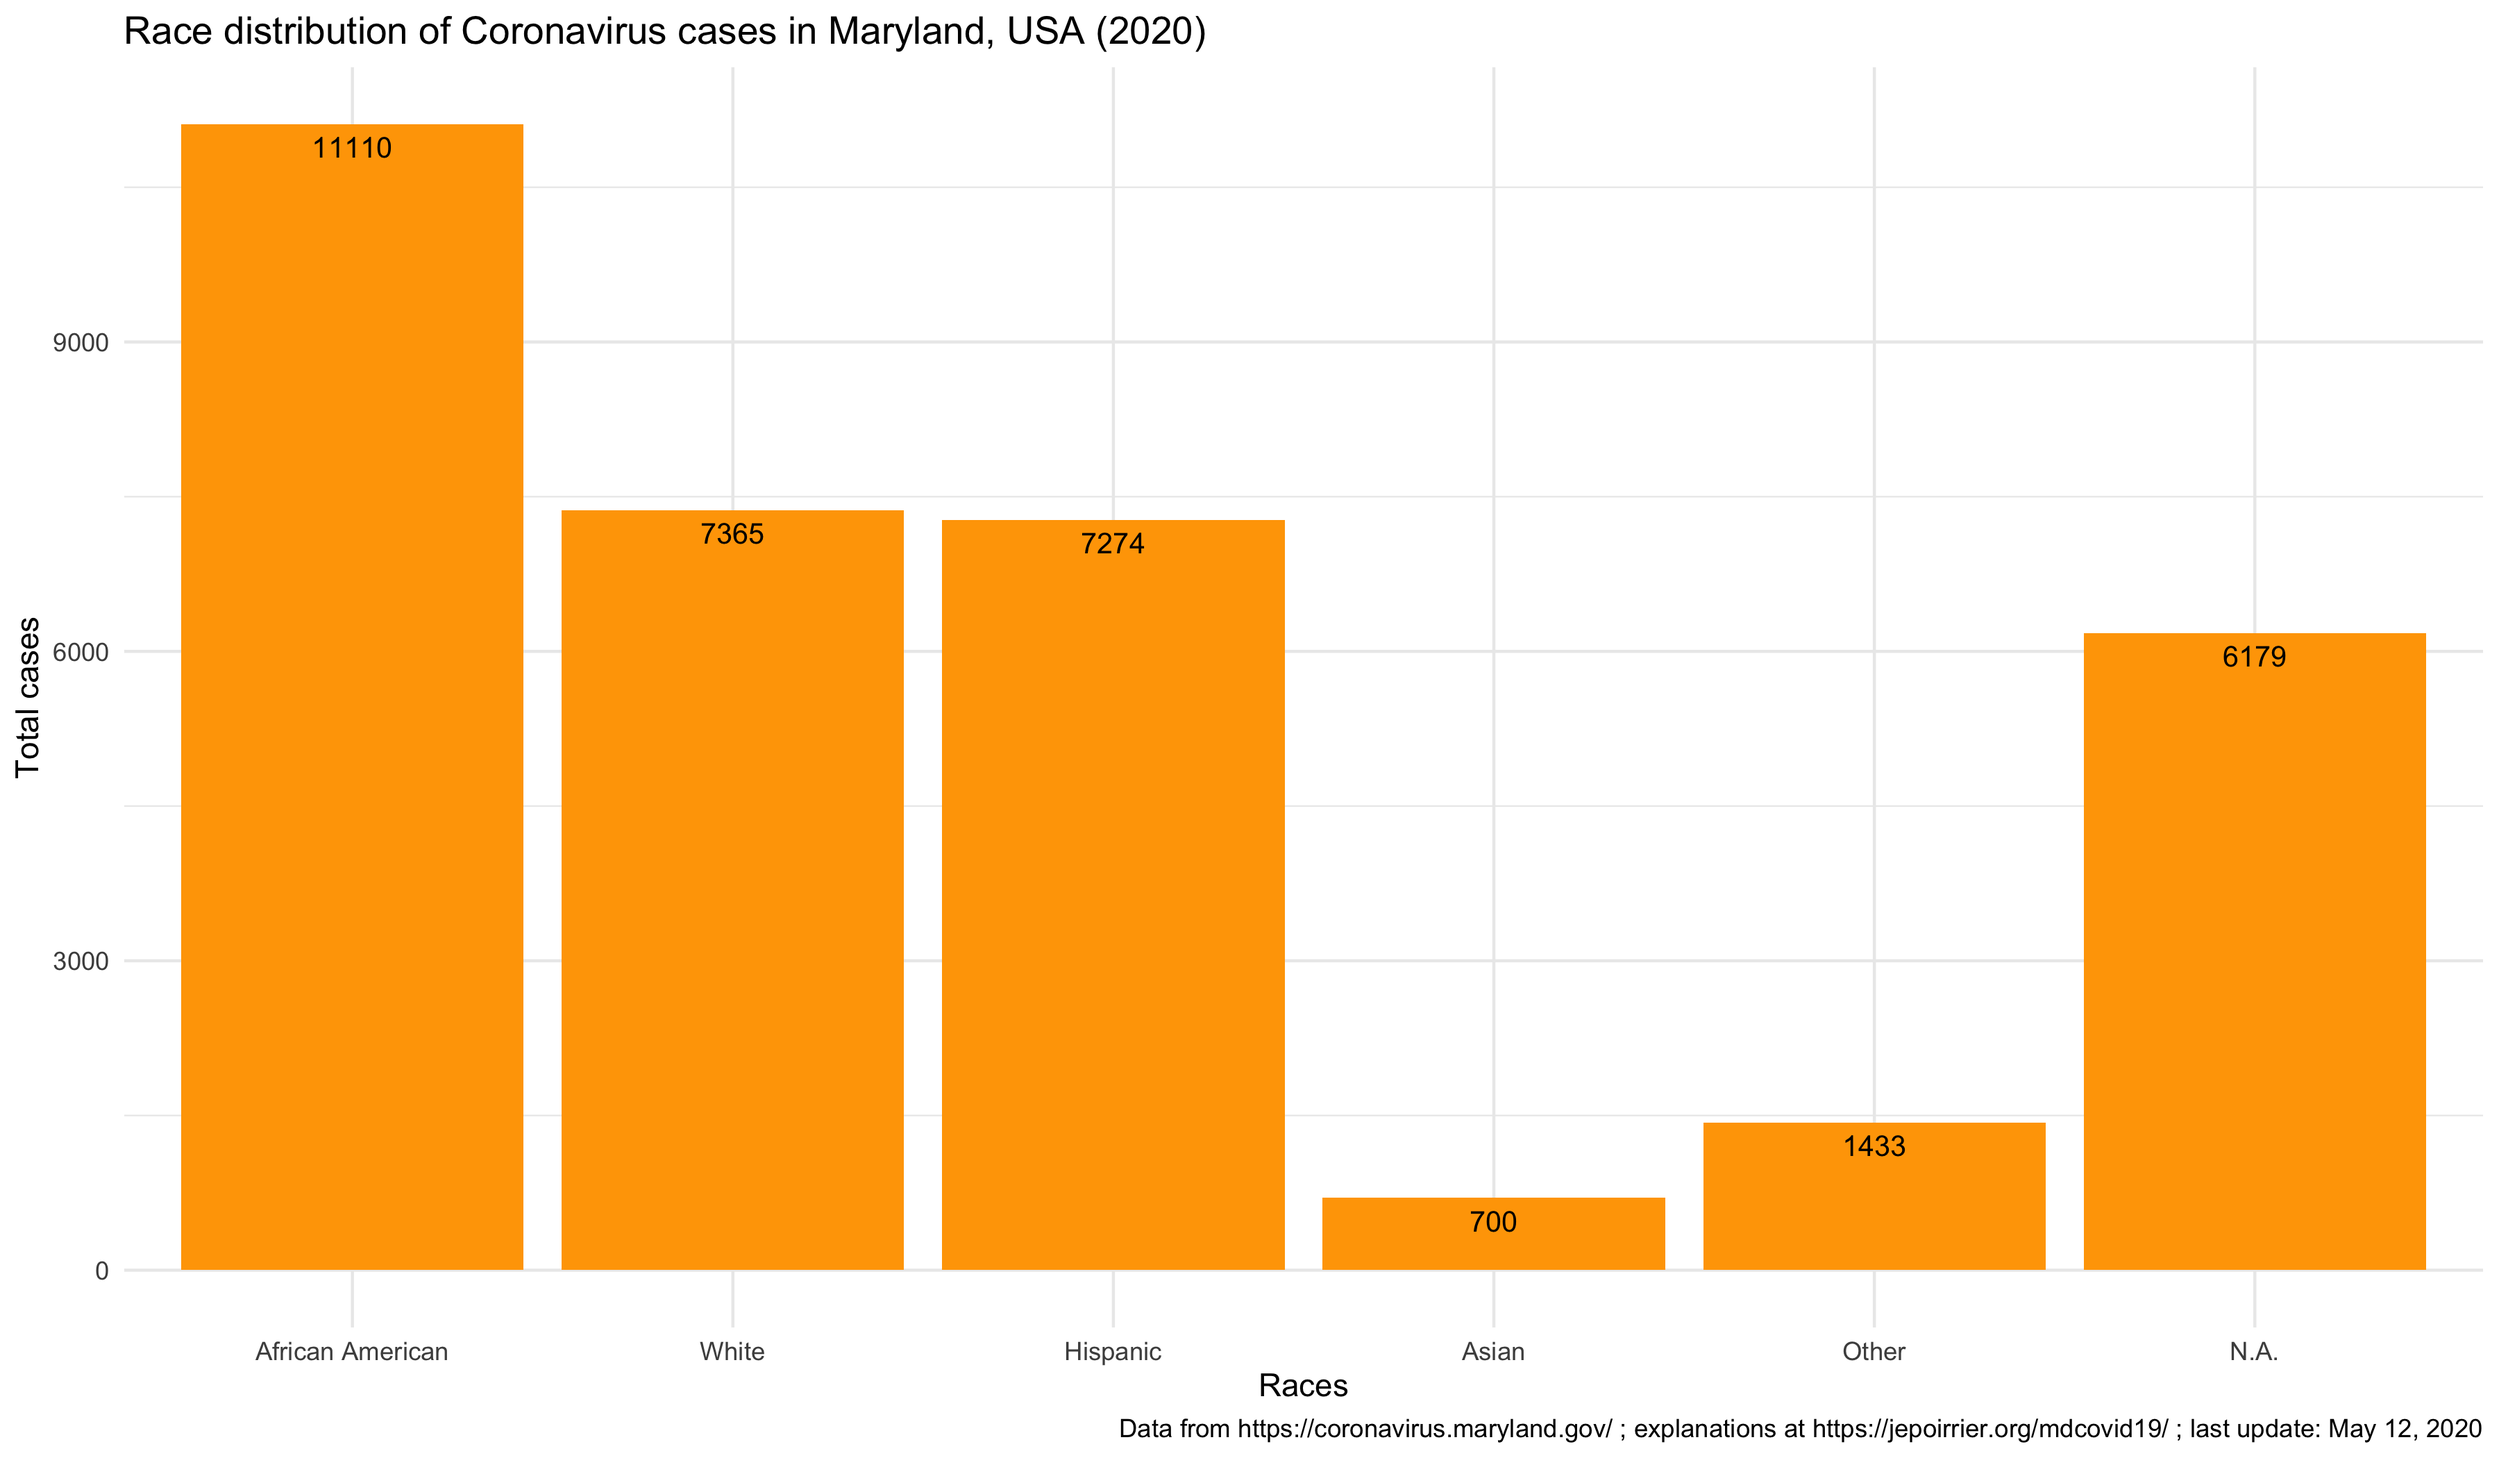
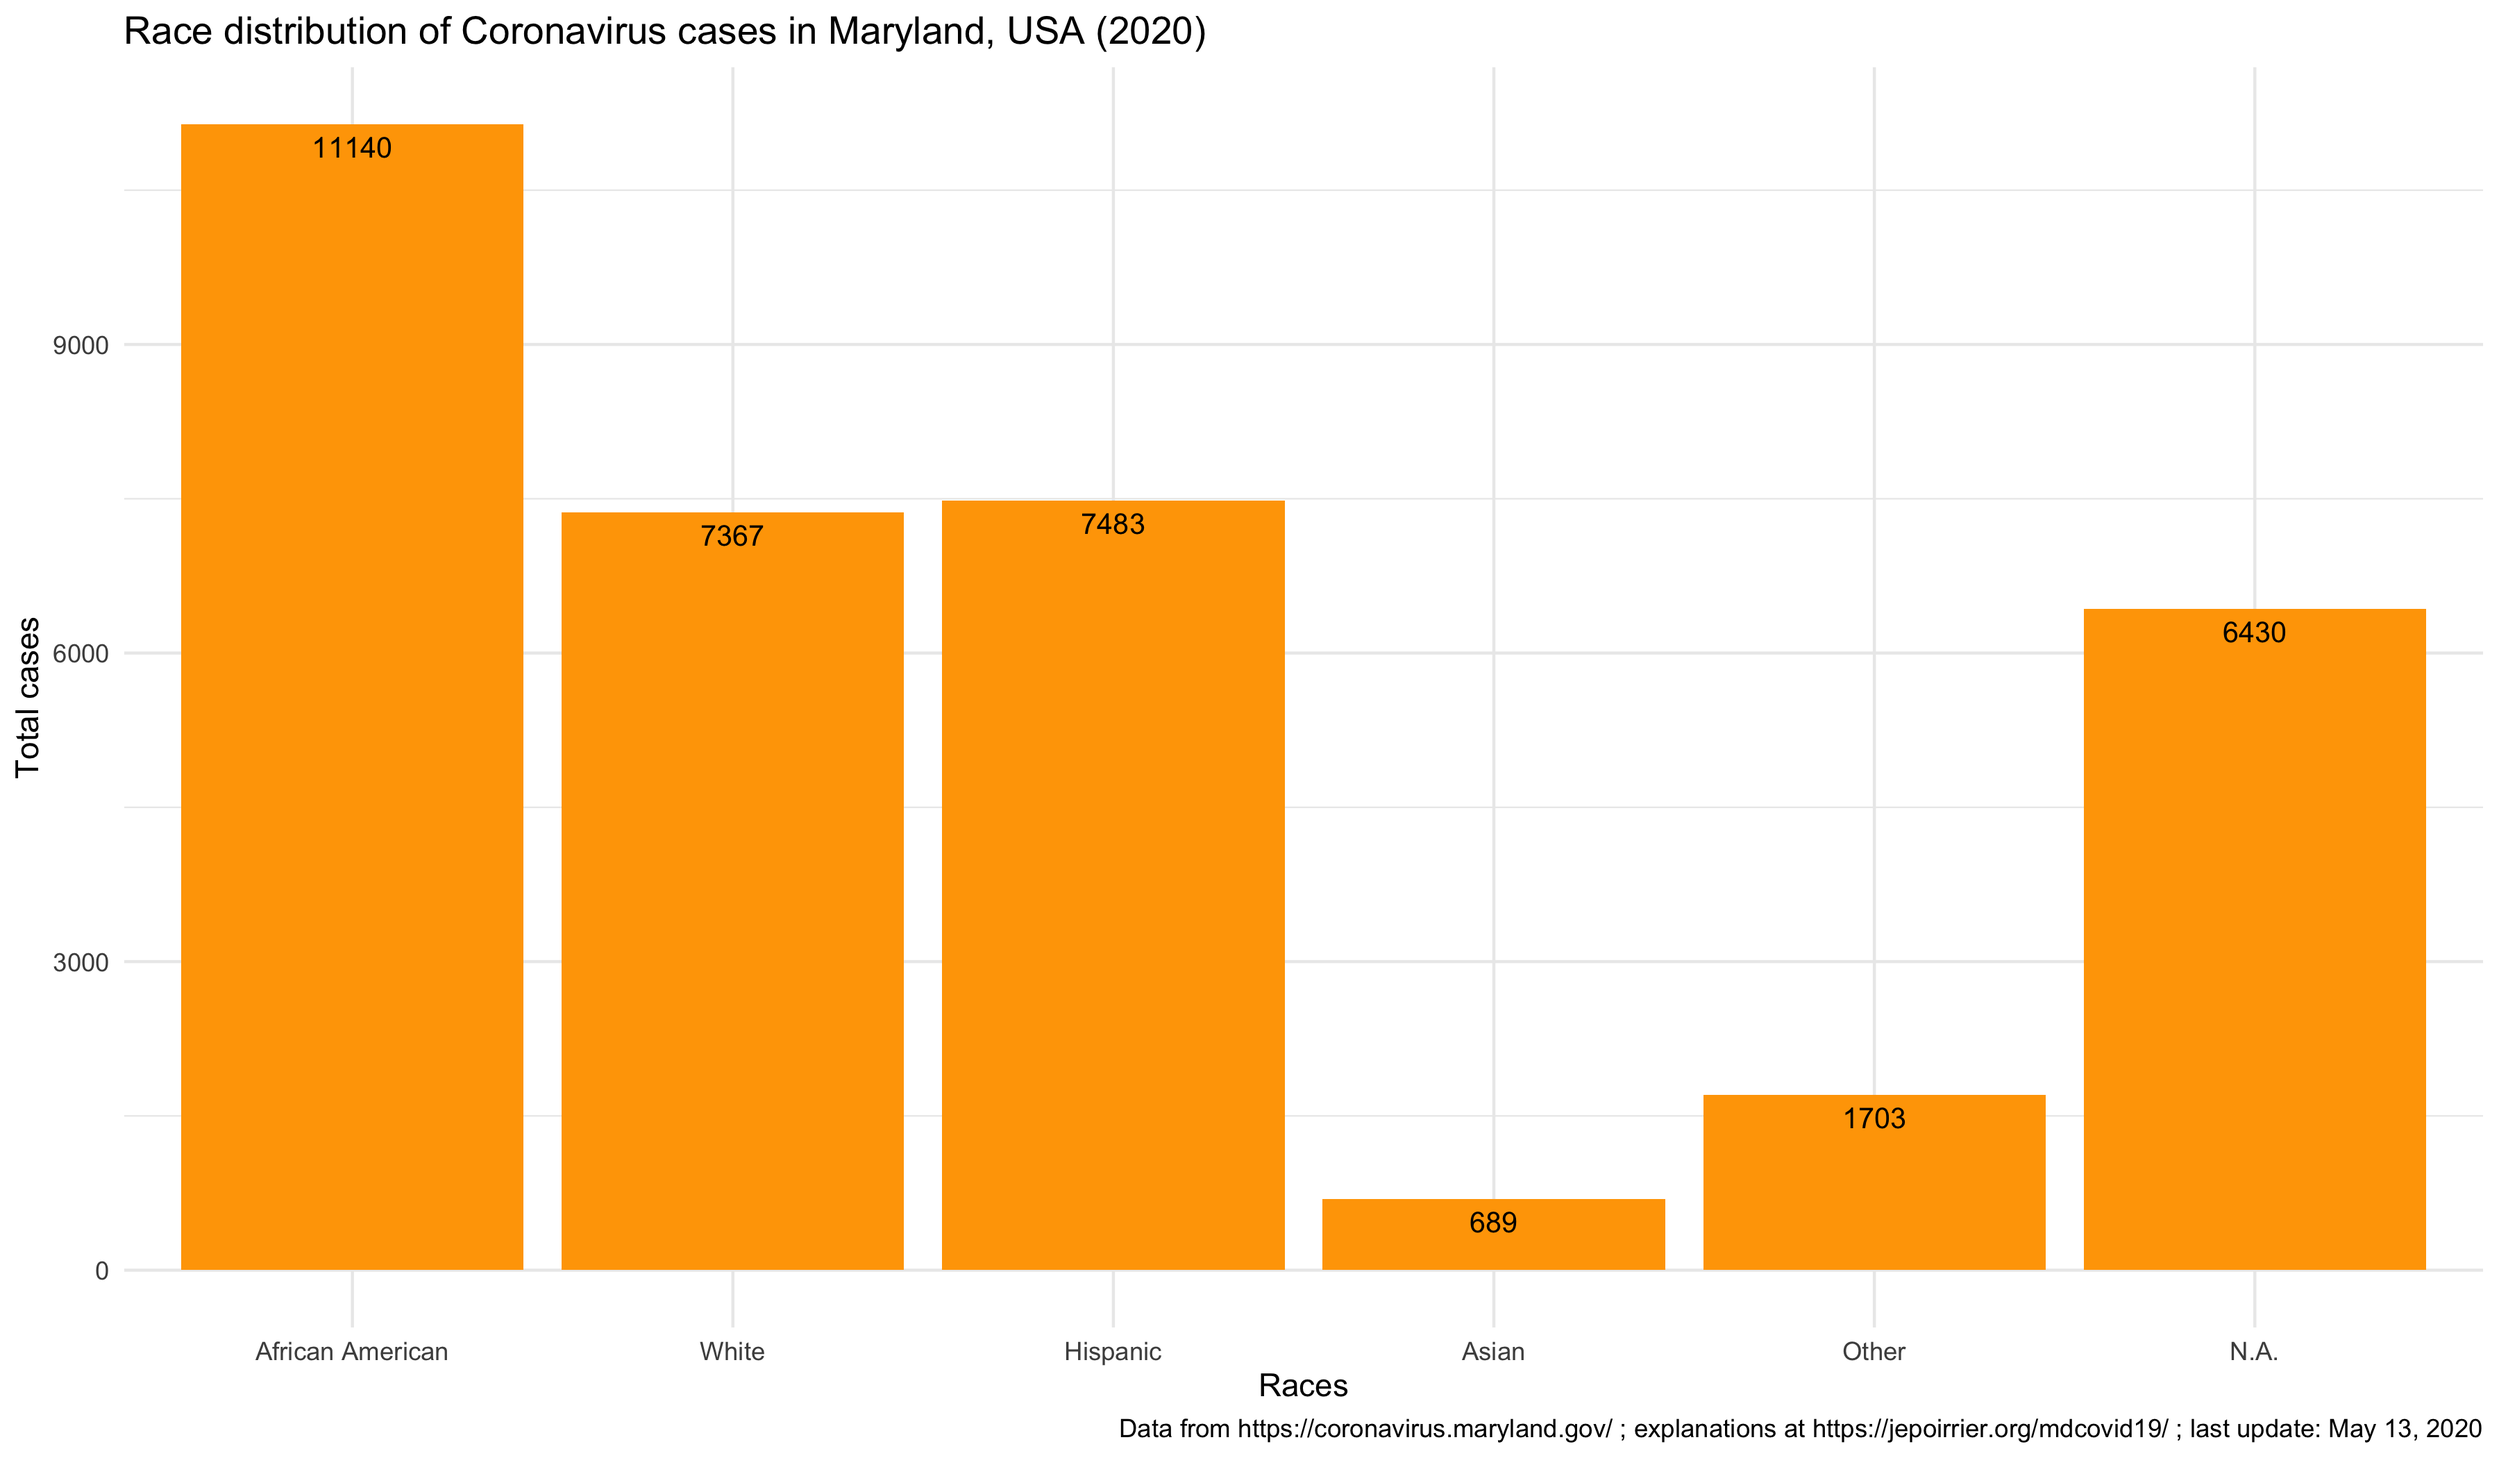
Figures update for May 13, 2020

diff --git a/parse-zip-v2.py b/parse-zip-v2.py
@@ -14,7 +14,7 @@ Created on Tue Apr 14 21:36:28 2020
 
 import os
 
-currentDate = '200512'
+currentDate = '200513'
 
 os.chdir('/Users/jepoirrier/Documents/software/MD-coronavirus') # Adapt to your needs
 
